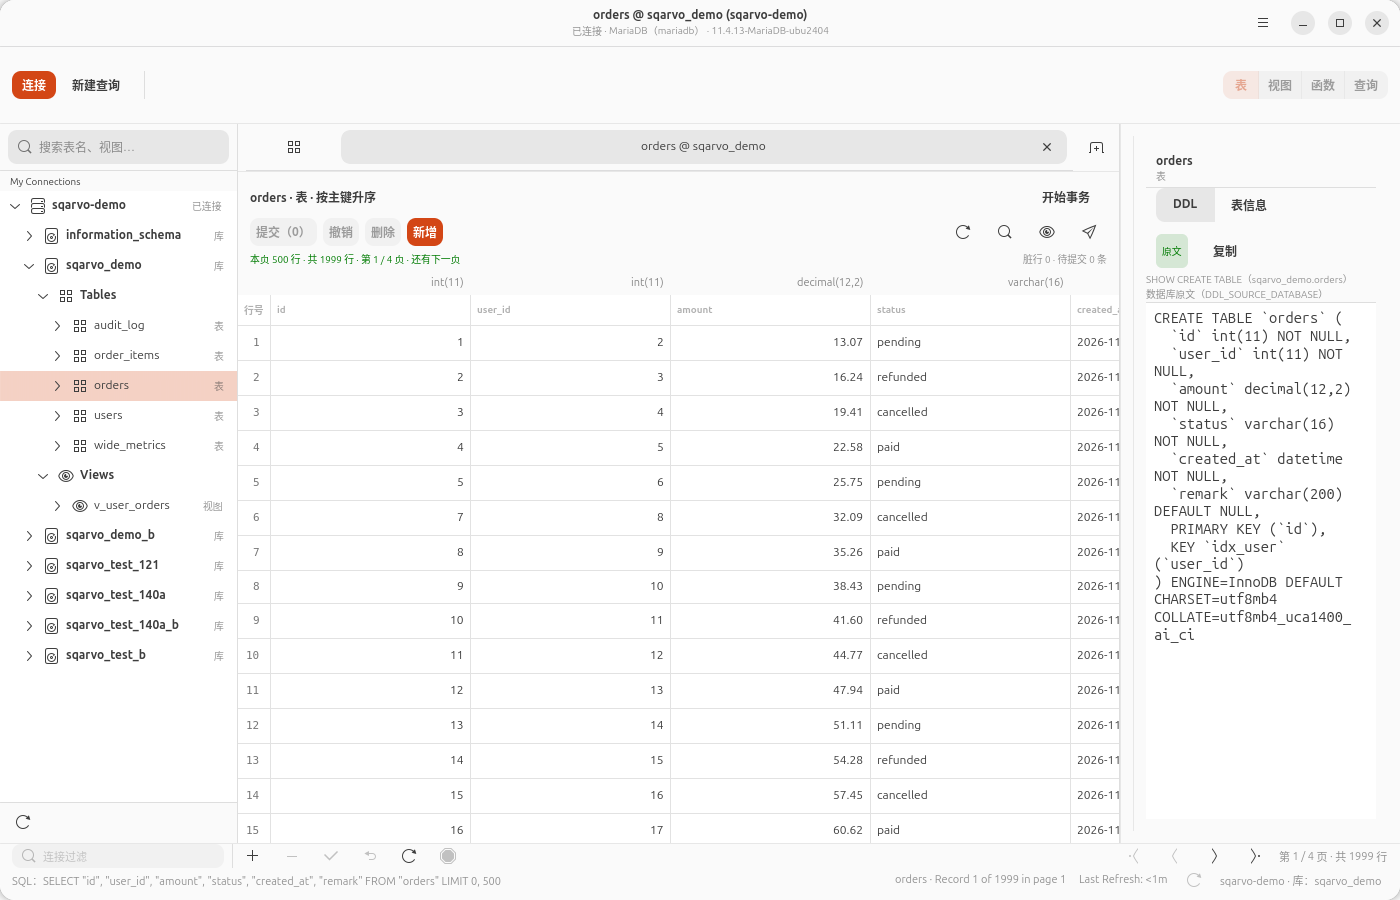
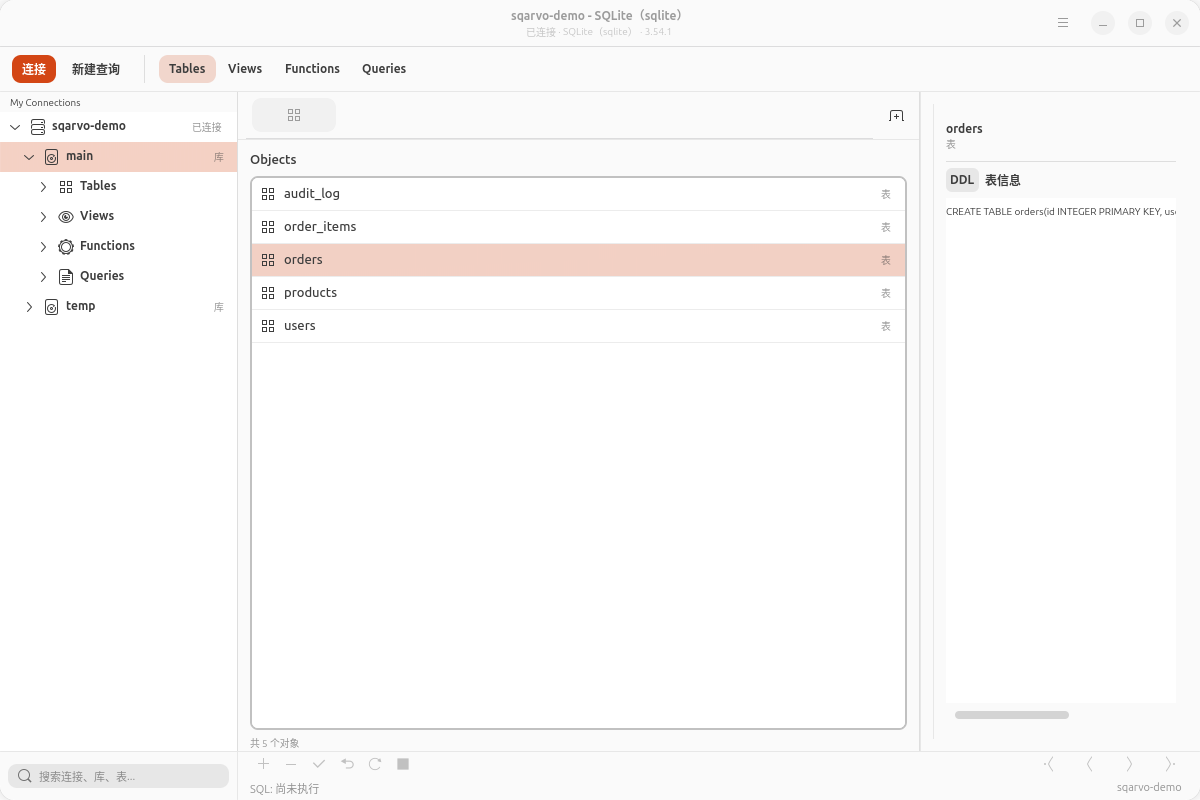
文档：README 首图换成当前 UI 的 1200×800 截图，同步验收段与重现命令
- `docs/assets/screenshots/linux-main-window.png`：11-08 的旧图换成当前界面（1200×800，
  `GDK_BACKEND=x11` + `--screenshot` 自渲染）。画面包含左侧对象树（`main` 下四个分组
  收起）、`Objects` 对象列表（2px 圆角外框 + 选中行）、信息面板 DDL、左下角对象搜索框与
  48px 状态栏。
- 根 README 的图片说明改成与新画面对应（原句写的是「表数据网格」，与当前图不符；
  尺寸 1400×900 → 1200×800）。
- `frontend/linux/README.md`：
  - 「README 首图怎么重现」改成自包含配方（`sqlite3` 建 5 表 2 视图，无需 MariaDB / 密码），
    用 `--qa-tree-activate` + `--qa-tree-select` + `--qa-objects-select`；
  - `v0232-objects-export.sh` 那一段的覆盖清单补 A10 / A11（搜索命中与清空），
    实例数 8 → 18（只跑 Objects 段 13 个），`A0–A8` → `A0–A11`。

没有 UI 行为变更：只换文档资产与还原命令，`docs/ui-specification/ui-behavior-contract.md`
无需改动。

diff --git a/frontend/linux/README.md b/frontend/linux/README.md
@@ -1017,26 +1017,39 @@ DISPLAY=:0 WAYLAND_DISPLAY=wayland-0 ./target/debug/sqarvo-desktop \
 
 ### README 首图怎么重现
 
-仓库根 `README.md` 的首图是 `docs/assets/screenshots/linux-main-window.png`，由本前端
-自渲染（不是桌面截图）。重现方式：用隔离的 `XDG_CONFIG_HOME` 连一个演示库，展开库并
-打开一张有主键的表，延迟 9 s 等数据与 DDL 就绪后写盘：
+仓库根 `README.md` 的首图是 `docs/assets/screenshots/linux-main-window.png`（1200×800），由本前端
+自渲染（不是桌面截图）。自包含：`sqlite3` 造一个 5 张表 + 2 个视图的演示库，不需要 MariaDB 与密码；
+`--qa-tree-activate main` 让库行展开出四个分组（产品行为：分组保持收起），
+`--qa-tree-select main` 把 `Objects` 页切到该库的表，`--qa-objects-select orders` 选中一行并让
+信息面板同步到该表，延迟 9 s 等目录层、列表与 DDL 都就绪后写盘：
 
 ```bash
 W=$(mktemp -d); mkdir -p "$W/cfg" "$W/run/sqarvo"
-cat > "$W/profile.json" <<'JSON'
-{"driver":"mariadb","host":"127.0.0.1","port":53306,"database":"sqarvo_demo","username":"sqarvo_test","tls_mode":"preferred","name":"sqarvo-demo"}
+sqlite3 "$W/demo.db" <<'SQL'
+CREATE TABLE users(id INTEGER PRIMARY KEY, name TEXT NOT NULL, email TEXT, created_at TEXT);
+CREATE TABLE orders(id INTEGER PRIMARY KEY, user_id INTEGER, total INTEGER, note TEXT);
+CREATE TABLE order_items(id INTEGER PRIMARY KEY, order_id INTEGER, sku TEXT);
+CREATE TABLE products(id INTEGER PRIMARY KEY, title TEXT, price INTEGER);
+CREATE TABLE audit_log(id INTEGER PRIMARY KEY, at TEXT, what TEXT);
+CREATE VIEW v_active_users AS SELECT id, name FROM users;
+CREATE VIEW v_order_totals AS SELECT user_id, count(*) FROM orders;
+SQL
+cat > "$W/profile.json" <<JSON
+{"driver":"sqlite","path":"$W/demo.db","read_only":false,"name":"sqarvo-demo"}
 JSON
-env XDG_CONFIG_HOME="$W/cfg" SQARVO_ENDPOINT_FILE="$W/run/sqarvo/backend-endpoint.json" \
-    SQARVO_QA_APP_ID=io.sqarvo.Sqarvo.ReadmeShot SQARVO_QA_PASSWORD=… \
-  ./target/debug/sqarvo-desktop --window-size 1400x900 \
-    --qa-profile "$W/profile.json" --qa-password-env SQARVO_QA_PASSWORD \
-    --qa-tree-expand sqarvo_demo --qa-tree-open orders \
-    --screenshot docs/assets/screenshots/linux-main-window.png \
-    --screenshot-delay-ms 9000 --qa-exit-after-ms 12000
+env GDK_BACKEND=x11 XDG_CONFIG_HOME="$W/cfg" \
+    SQARVO_ENDPOINT_FILE="$W/run/sqarvo/backend-endpoint.json" \
+    SQARVO_QA_APP_ID=io.sqarvo.Sqarvo.ReadmeShot \
+  ./target/debug/sqarvo-desktop --window-size 1200x800 \
+    --qa-profile "$W/profile.json" \
+    --qa-tree-activate main --qa-tree-select main --qa-objects-select orders \
+    --screenshot ../docs/assets/screenshots/linux-main-window.png \
+    --screenshot-delay-ms 9000 --qa-exit-after-ms 11000
 ```
 
-密码只走环境变量（命令行里不出现明文）；`sqarvo_demo` 是本机演示库，换成你自己的库时
-改 `profile.json` 与 `--qa-tree-expand` 的库名即可。
+`GDK_BACKEND=x11` 是必需的：Wayland 会话下窗口 `mapped` 却拿不到渲染节点，截图会报「控件快照为空」。
+换成 MariaDB 演示库时改 `profile.json`（`driver` / `host` / `port` / `database` / `username` /
+`name`）并加 `--qa-password-env SQARVO_QA_PASSWORD`——密码只走环境变量，命令行里不出现明文。
 
 ### SQL 执行的无人值守验证（`--qa-sql-file` / `--qa-execute` / `--qa-scroll-to-row` / `--qa-cancel-after-ms`）
 
@@ -1372,16 +1385,19 @@ SQLite 与 MariaDB 各跑一遍，最后追加一段**无默认库跨库**用例
 ```bash
 cd frontend/linux
 ./scripts/v0232-objects-export.sh            # 全量（发布门禁：Objects + 导出 + 树激活 + 960 布局）
-SQARVO_ACCEPTANCE_ONLY=objects ./scripts/v0232-objects-export.sh   # 只跑 Objects 段（A0–A8）
+SQARVO_ACCEPTANCE_ONLY=objects ./scripts/v0232-objects-export.sh   # 只跑 Objects + 搜索段（A0–A11）
 # 可选：SQARVO_ACCEPTANCE_DIR=/tmp/shots（默认 /home/jack/sqarvo-v0232-shots，仍追加时间戳）
 #       SQARVO_ACCEPTANCE_NO_BUILD=1（跳过 cargo build）
 ```
 
 自包含脚本：只用 `sqlite3` 在 mktemp 目录建一个临时库（1 张 30 行的表 + 索引 + 触发器 + 视图），
-**不需要 MariaDB、不需要密码**；串行跑 8 个应用实例（各自独立 `SQARVO_QA_APP_ID` 与
-`XDG_CONFIG_HOME`），覆盖 `Objects` 固定页随树选中切换（选中库 → 该库的表、选中视图 → 该库的
-视图，含行数 / 首行 / 选中行 / 空态 / 状态行断言与截图）、单击选中同步信息面板、双击 / 回车
-激活开标签、作用域未变不重发、切回 `Objects` 页清掉行选中，`EX` 整表导出（行数 = 数据行 + 1、
+**不需要 MariaDB、不需要密码**；串行跑 18 个应用实例（只跑 Objects 段时 13 个；各自独立
+`SQARVO_QA_APP_ID` 与 `XDG_CONFIG_HOME`），覆盖 `Objects` 固定页随树选中切换（选中库 → 该库的
+表、选中视图 → 该库的视图，含行数 / 首行 / 选中行 / 空态 / 状态行断言与截图）、单击选中同步
+信息面板、双击 / 回车激活开标签、作用域未变不重发、切回 `Objects` 页清掉行选中、
+树形搜索结果（A10：`--qa-search probe` 命中表 + 视图共 2 个对象，`rows=` 断言
+连接 > 库 > `Tables` > 表 > `Views` > 视图的行序、`highlight=` 断言只有命中行高亮）、
+清空搜索退出筛选（A11：`state=idle` + `hits=0`）、`EX` 整表导出（行数 = 数据行 + 1、
 权限 0600、目录无 `.sqarvo-tmp` 残留、日志命中完成与进度）、取消路径（目标不创建、无残留、
 日志写明「已写入 N 行后取消」）与默认的当前页导出对照。断言读控件文本、日志与文件事实，
 失败以非零退出，末尾打印「N 项断言全过」；证据全部落在仓库外。

diff --git a/README.md b/README.md
@@ -8,10 +8,12 @@
 - 前端与后端通过 gRPC + Protobuf 通信；
 - 数据库通过可扩展的 Driver SPI 接入。
 
-![Sqarvo 主窗口：对象树、表数据网格与信息面板 DDL（Linux / GTK4，v0.2.3.2）](docs/assets/screenshots/linux-main-window.png)
+![Sqarvo 主窗口：对象树、Objects 对象列表与信息面板 DDL（Linux / GTK4）](docs/assets/screenshots/linux-main-window.png)
 
-*Linux 前端（GTK4 + libadwaita）：对象树 · 表数据网格 · 信息面板 DDL，连接 MariaDB 的
-`sqarvo_demo` 库（1400×900）。截图由前端自渲染生成（`--screenshot`），不是桌面截图。*
+*Linux 前端（GTK4 + libadwaita）：对象树（连接 → 库 → `Tables`/`Views`/`Functions`/`Queries`
+四组）· `Objects` 对象列表（2px 圆角外框，选中行同步信息面板）· 信息面板 DDL · 左下角对象搜索框
+与 48px 状态栏，连接本地 SQLite 演示库（1200×800）。截图由前端自渲染生成（`--screenshot`），
+不是桌面截图。*
 
 > 当前版本为 **v0.2.3.2**（M6 前端硬化第二批）：在 v0.2.3.1 之上把界面行为收成一套口径——
 > 对象树单击只选中 / 双击激活、表下四组元数据、信息面板常驻、`Objects` 页与树联动、
